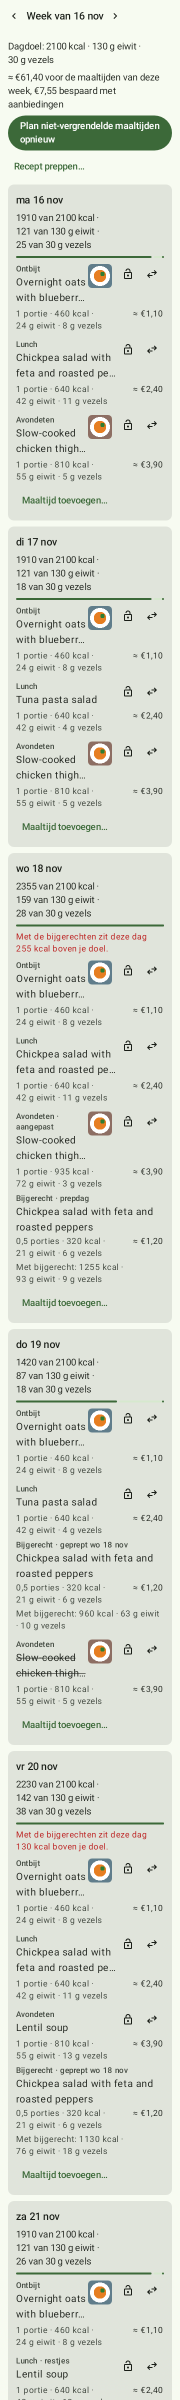
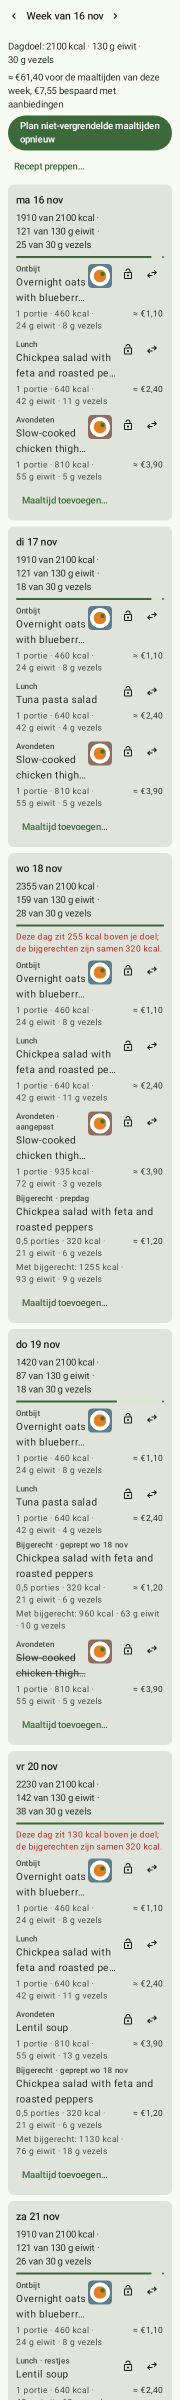
A skipped side that makes its batch still makes it once its share is eaten elsewhere
The emulator run of this pull request found that skipping the meal a side's batch is made with and eating its
side next to a later meal left the batch without a maker: the next side was labelled "prep day" with nothing
to cook, every side cooked 0, and that side could be removed. The moved side's row was deleted, where a moved
meal's row stays at 0. The side the batch is made with now stays at 0 too, so the batch is made on its
made-on day with that meal, as step 1 decided for meals; the list counts the batch from its recipe. Meals had
no such hole; a test now says so.

From the same run: the Dutch hint gets its verb, the day card says by how much the day is over and what its
sides add instead of laying the whole overshoot on them, and a side for a single meal says why it needs a
second.

diff --git a/server/src/test/kotlin/dev/tobins/mealplanner/server/PrepTest.kt b/server/src/test/kotlin/dev/tobins/mealplanner/server/PrepTest.kt
@@ -364,6 +364,24 @@ class PrepTest {
         assertEquals(2000.0, k.stockOf(k.chicken), 1e-9, "un-made, every share comes back, Friday's too")
     }
 
+    @Test
+    fun theMealABatchIsMadeWithStillMakesItWhenSkippedAndItsShareIsEatenElsewhere() = testApplication {
+        val http = start()
+        val k = http.kitchen()
+        // Made with Tuesday's dinner, which is skipped; its share is eaten on Wednesday evening instead.
+        http.prep(k.salad.id, "2026-11-17", "2026-11-17" to DINNER, "2026-11-18" to LUNCH, "2026-11-19" to DINNER)
+        http.mark("2026-11-17", DINNER, MealStatus.SKIPPED)
+        val spare = http.spare("2026-11-17").single()
+        val plan = http.post("/api/plans/$week/preps/${spare.prepId}/spare") { setBody(SpareMove(spare.skipped, PrepSlot("2026-11-18", DINNER))) }.body<WeekPlan>()
+
+        // The batch is still made on Tuesday, with that dinner: it shows the batch to cook and is the one that stays.
+        val tuesday = plan.at("2026-11-17", DINNER)!!
+        assertEquals(Triple(false, 4.25, 0.0), Triple(tuesday.leftover, tuesday.cookPortions, tuesday.prep!!.meals.first().portions))
+        assertEquals(listOf(0.0, 0.0, 0.0), listOf("2026-11-18" to LUNCH, "2026-11-18" to DINNER, "2026-11-19" to DINNER).map { plan.at(it.first, it.second)!!.cookPortions })
+        assertEquals(HttpStatusCode.Conflict, http.delete(mealPath("2026-11-17", DINNER)).status)
+        assertEquals(4.25 * 300, http.chickenRow()!!.grams!!, 1e-9)
+    }
+
     // --- Removing
 
     @Test
@@ -568,5 +586,32 @@ class PrepTest {
         assertEquals(taken, k.stockOf(k.chicken), 1e-9, "the stock does not move")
         http.mark("2026-11-17", DINNER, MealStatus.PLANNED)
         assertEquals(2000.0, k.stockOf(k.chicken), 1e-9, "un-made, every share comes back, Friday's side's too")
+    }
+
+    @Test
+    fun theSideABatchIsMadeWithStillMakesItWhenSkippedAndItsShareIsEatenElsewhere() = testApplication {
+        val http = start()
+        val k = http.kitchen()
+        http.planned()
+        // Made with Tuesday's dinner, which is skipped, and its side with it; the side is eaten next to Wednesday's dinner instead.
+        http.prep(k.salad.id, "2026-11-17", "2026-11-17" to DINNER, "2026-11-18" to LUNCH, "2026-11-19" to DINNER, side = 0.5)
+        http.mark("2026-11-17", DINNER, MealStatus.SKIPPED)
+        val spare = http.spare("2026-11-17").single()
+        val plan = http.post("/api/plans/$week/preps/${spare.prepId}/spare") { setBody(SpareMove(spare.skipped, PrepSlot("2026-11-18", DINNER))) }.body<WeekPlan>()
+
+        // The batch is still made on Tuesday, with that dinner's side, now 0: it shows the batch to cook and stays.
+        val tuesday = plan.at("2026-11-17", DINNER)!!.side!!
+        assertEquals(0.0 to 1.5, tuesday.portions to tuesday.cookPortions)
+        assertEquals(PrepSlot("2026-11-17", DINNER), tuesday.prep.meals.first().let { PrepSlot(it.date, it.slot) })
+        val later = listOf("2026-11-18" to LUNCH, "2026-11-18" to DINNER, "2026-11-19" to DINNER).map { plan.at(it.first, it.second)!!.side!! }
+        assertEquals(listOf(0.5 to 0.0, 0.5 to 0.0, 0.5 to 0.0), later.map { it.portions to it.cookPortions })
+        assertEquals(HttpStatusCode.Conflict, http.delete(mealPath("2026-11-17", DINNER, "/side")).status)
+        assertEquals(HttpStatusCode.Conflict, http.delete(mealPath("2026-11-17", DINNER)).status)
+        assertEquals(450.0, http.chickenRow()!!.grams!!, 1e-9, "the batch is bought as large as it was")
+
+        // Made when Wednesday's lunch is eaten: the shares of the sides eaten, none for Tuesday's.
+        k.stockUp(k.chicken, 1000.0)
+        http.mark("2026-11-18", LUNCH, MealStatus.EATEN)
+        assertEquals(1000.0 - 450.0, k.stockOf(k.chicken), 1e-9)
     }
 }

diff --git a/composeApp/src/commonMain/kotlin/dev/tobins/mealplanner/app/Messages.kt b/composeApp/src/commonMain/kotlin/dev/tobins/mealplanner/app/Messages.kt
@@ -254,6 +254,10 @@ enum class Msg(private val english: String, private val dutch: String) {
     PREP_EATEN_ON("Eaten on", "Gegeten op"),
     PREP_FIRST_ON_MADE_DAY("The first meal is on the day it is made.", "De eerste maaltijd is op de dag dat je het maakt."),
     PREP_TWO_MEALS("Pick at least two meals.", "Kies minstens twee maaltijden."),
+    PREP_TWO_SIDES(
+        "A prep is made once for at least two meals: pick a second lunch or dinner for the side to go with.",
+        "Een prep maak je één keer voor minstens twee maaltijden: kies nog een lunch of avondeten voor het bijgerecht.",
+    ),
     PREP_MADE_ON_PAST("The day it is made has passed: pick today or a later day.", "De dag waarop je het maakt is voorbij: kies vandaag of later."),
     PREP_PICK_RECIPE("Pick a recipe that keeps.", "Kies een recept dat goed blijft."),
     PREP_NOT_THIS_WAY("This recipe is not kept this way.", "Dit recept wordt niet zo bewaard."),
@@ -271,14 +275,14 @@ enum class Msg(private val english: String, private val dutch: String) {
     PREP_AS_SIDE("A side · {0}", "Bijgerecht · {0}"),
     PREP_SIDE_HINT(
         "A side goes next to the meal planned there, which keeps its own portion: only lunches and dinners with a meal still to eat and no side yet can be picked.",
-        "Een bijgerecht komt naast de maaltijd die er gepland staat, die zijn eigen portie houdt: je kunt alleen lunches en avondeten kiezen met een maaltijd die nog gegeten moet worden en nog geen bijgerecht.",
+        "Een bijgerecht komt naast de maaltijd die er gepland staat, die zijn eigen portie houdt: je kunt alleen lunches en avondeten kiezen met een maaltijd die nog gegeten moet worden en nog geen bijgerecht heeft.",
     ),
     PREP_MEAL_SIDE("{0} (side)", "{0} (bijgerecht)"),
     REMOVE_PREP_SIDES_TEXT("This takes all its sides out of the plan; the meals they go with stay: {0}.", "Hiermee gaan al zijn bijgerechten uit het plan; de maaltijden ernaast blijven: {0}."),
     SIDE_PREP_DAY("Side · prep day", "Bijgerecht · prepdag"),
     SIDE_PREPPED("Side · prepped {0}", "Bijgerecht · geprept {0}"),
     MEAL_WITH_SIDE("With the side: {0}", "Met bijgerecht: {0}"),
-    DAY_OVER_WITH_SIDES("With its sides this day is {0} kcal over the target.", "Met de bijgerechten zit deze dag {0} kcal boven je doel."),
+    DAY_OVER_WITH_SIDES("This day is {0} kcal over the target; its sides add {1} kcal.", "Deze dag zit {0} kcal boven je doel; de bijgerechten zijn samen {1} kcal."),
     ADD_SIDE("Add a prepped side…", "Geprept bijgerecht toevoegen…"),
     REMOVE_SIDE("Remove the side", "Bijgerecht verwijderen"),
     REMOVE_SIDE_PREP("Remove the side's prep…", "Prep van het bijgerecht verwijderen…"),

diff --git a/composeApp/src/commonTest/kotlin/dev/tobins/mealplanner/app/SidesTest.kt b/composeApp/src/commonTest/kotlin/dev/tobins/mealplanner/app/SidesTest.kt
@@ -20,6 +20,7 @@ import dev.tobins.mealplanner.api.SparePortion
 import dev.tobins.mealplanner.api.WeekPlan
 import kotlin.test.Test
 import kotlin.test.assertEquals
+import kotlin.test.assertNotNull
 import kotlin.test.assertNull
 
 /** What the Plan and Today offer and say of a side taken from a prepped batch (issue 234, step 2). */
@@ -87,13 +88,24 @@ class SidesTest {
     }
 
     @Test
-    fun aDayWithASideThatGoesOverItsCaloriesSaysByHowMuch() {
+    fun aDayWithASideThatGoesOverItsCaloriesSaysByHowMuchAndWhatItsSidesAdd() {
         val targets = DailyTargets(2000, 120)
         fun day(kcal: Double, vararg meals: PlannedMeal) = PlanDay("2026-11-17", meals.toList(), kcal, 0.0)
-        assertEquals(150, day(2150.0, meal(1, DINNER, side(1.0))).kcalOverWithSides(targets))
-        assertNull(day(1950.0, meal(1, DINNER, side(1.0))).kcalOverWithSides(targets), "under the target")
-        assertNull(day(2150.0, meal(1, DINNER)).kcalOverWithSides(targets), "over without a side: as the planner made it")
-        assertNull(day(2150.0, meal(1, DINNER, side(1.0), MealStatus.SKIPPED)).kcalOverWithSides(targets), "a skipped side counts for nothing")
+        // Over by more than the side adds: over without it too, which the sentence does not lay on the side.
+        val over = assertNotNull(day(2400.0, meal(1, DINNER, side(1.0))).overWithSides(targets))
+        assertEquals(400 to 225, over)
+        assertEquals("This day is 400 kcal over the target; its sides add 225 kcal.", Strings.English(Msg.DAY_OVER_WITH_SIDES, over.first, over.second))
+        assertEquals(150 to 225, day(2150.0, meal(1, DINNER, side(1.0))).overWithSides(targets))
+        assertNull(day(1950.0, meal(1, DINNER, side(1.0))).overWithSides(targets), "under the target")
+        assertNull(day(2150.0, meal(1, DINNER)).overWithSides(targets), "over without a side: as the planner made it")
+        assertNull(day(2150.0, meal(1, DINNER, side(1.0), MealStatus.SKIPPED)).overWithSides(targets), "a skipped side counts for nothing")
+    }
+
+    @Test
+    fun aSideForOneMealOnlySaysWhyItNeedsASecond() {
+        val choice = PrepChoice(salad, madeOn = "2026-11-17", firstDay = "2026-11-17").toggled("2026-11-17", DINNER)
+        assertEquals(Msg.PREP_TWO_SIDES, choice.eatenAs(0.5, setOf(PrepSlot("2026-11-17", DINNER))).problem)
+        assertEquals(Msg.PREP_TWO_MEALS, choice.problem, "as the meal, as before")
     }
 
     @Test

diff --git a/server/src/main/kotlin/dev/tobins/mealplanner/server/PrepRepository.kt b/server/src/main/kotlin/dev/tobins/mealplanner/server/PrepRepository.kt
@@ -158,8 +158,9 @@ class PrepRepository(
      * after it, up to the batch's last day, that has room ([hasRoom]); whatever was planned there goes. The skipped
      * meal stays skipped with a share of 0, and what the stock gave for its share and what was in it go along, so
      * the batch, the shopping list and the stock stay as they were. A skipped side goes next to the meal there
-     * instead ([hasRoomForSide]), with what the stock gave for it, and is no longer next to the skipped meal.
-     * Answers the week starting [weekStart].
+     * instead ([hasRoomForSide]), with what the stock gave for it, and is no longer next to the skipped meal; the side
+     * the batch is made with stays there at 0, as a skipped meal does, so its meal still makes the batch (it shows
+     * the batch to cook and can't be removed on its own). Answers the week starting [weekStart].
      */
     fun eatSpare(weekStart: String, id: Long, move: SpareMove): WeekPlan {
         val shown = parseWeekStart(weekStart)
@@ -178,7 +179,12 @@ class PrepRepository(
             if (from.side) {
                 if (!hasRoomForSide(meals, day, slot, batch.id)) throw ConflictException("${Batch.slotName(target, slot)} has no meal still to eat without a side")
                 q.insertSidePortion(userId, week.toString(), day.toLong(), slot.name, batch.id, from.share)
-                q.deleteSidePortion(userId, old.week.toString(), old.day.toLong(), old.slot.name)
+                // The batch is still made on its made-on day, with that meal's side, as with a meal of a batch.
+                if (batch.isCook(old.week, from.meal, side = true)) {
+                    q.clearSideShare(userId, old.week.toString(), old.day.toLong(), old.slot.name)
+                } else {
+                    q.deleteSidePortion(userId, old.week.toString(), old.day.toLong(), old.slot.name)
+                }
             } else {
                 if (!hasRoom(week, meals, day, slot, batch.id)) throw ConflictException("${Batch.slotName(target, slot)} has a meal that stays")
                 plans.leftoversToReplace(week, meals, day, slot)?.let { plans.deleteMeal(week, it.day, it.slot) }

diff --git a/composeApp/src/commonMain/kotlin/dev/tobins/mealplanner/app/Sides.kt b/composeApp/src/commonMain/kotlin/dev/tobins/mealplanner/app/Sides.kt
@@ -49,9 +49,15 @@ fun sideHosts(vararg weeks: WeekPlan?): Set<PrepSlot> = weeks.filterNotNull().fl
     }
 }.toSet()
 
-/** The kcal [this] day goes over [targets] by, rounded, when it has a side and goes over: what the day card says (a note, not a refusal). */
-fun PlanDay.kcalOverWithSides(targets: DailyTargets): Int? =
-    (kcal - targets.kcal).roundToInt().takeIf { over -> over > 0 && meals.any { it.side != null && it.status != MealStatus.SKIPPED } }
+/**
+ * What the day card says (a note, not a refusal) when [this] day has sides and goes over [targets]: the kcal it goes over by
+ * and the kcal its sides add, rounded; null otherwise. Both, as the day may have been over without its sides already.
+ */
+fun PlanDay.overWithSides(targets: DailyTargets): Pair<Int, Int>? {
+    val sides = meals.filter { it.status != MealStatus.SKIPPED }.mapNotNull { it.side }
+    val over = (kcal - targets.kcal).roundToInt()
+    return if (sides.isEmpty() || over <= 0) null else over to sides.sumOf { it.kcal }.roundToInt()
+}
 
 /** What [this] side gives, as a meal's numbers: `0.5 servings · 225 kcal · 30 g protein`. */
 fun MealSide.macrosText(strings: Strings): String =

diff --git a/server/src/main/kotlin/dev/tobins/mealplanner/server/PlanRepository.kt b/server/src/main/kotlin/dev/tobins/mealplanner/server/PlanRepository.kt
@@ -674,9 +674,11 @@ class PlanRepository(
         val cookedAsSides = week.mapNotNull { meal ->
             val side = meal.side ?: return@mapNotNull null
             val batch = sideBatches[side.prep.id]?.takeIf { it.isCook(start, meal, side = true) } ?: return@mapNotNull null
+            // Of the recipe, not of the side: the side it is made with is 0 once its share is eaten elsewhere.
+            val recipe = recipes.candidate(batch.recipeId)
             PlannedMeal(
                 meal.day, meal.slot, batch.recipeId, batch.title, batch.portions,
-                kcal = side.kcal / side.portions * batch.portions, proteinG = side.proteinG / side.portions * batch.portions,
+                kcal = (recipe?.kcal ?: 0.0) * batch.portions, proteinG = (recipe?.proteinG ?: 0.0) * batch.portions,
                 locked = true, status = batch.status, prep = side.prep,
             )
         }

diff --git a/composeApp/src/commonMain/kotlin/dev/tobins/mealplanner/app/PlanScreen.kt b/composeApp/src/commonMain/kotlin/dev/tobins/mealplanner/app/PlanScreen.kt
@@ -369,8 +369,8 @@ private fun DayCard(
                 modifier = Modifier.fillMaxWidth(),
             )
             // A side added by hand may take the day over its calories: said, not refused (issue 234).
-            day.kcalOverWithSides(targets)?.let { over ->
-                Text(t(Msg.DAY_OVER_WITH_SIDES, over), style = MaterialTheme.typography.bodySmall.numeric(), color = MaterialTheme.colorScheme.error)
+            day.overWithSides(targets)?.let { (over, sides) ->
+                Text(t(Msg.DAY_OVER_WITH_SIDES, over, sides), style = MaterialTheme.typography.bodySmall.numeric(), color = MaterialTheme.colorScheme.error)
             }
             if (day.meals.isEmpty()) {
                 Text(t(Msg.NOTHING_PLANNED), style = MaterialTheme.typography.bodySmall, color = MaterialTheme.colorScheme.onSurfaceVariant)

diff --git a/composeApp/src/commonMain/kotlin/dev/tobins/mealplanner/app/Prep.kt b/composeApp/src/commonMain/kotlin/dev/tobins/mealplanner/app/Prep.kt
@@ -78,7 +78,8 @@ data class PrepChoice(
             recipe == null -> Msg.PREP_PICK_RECIPE
             keeps == null -> Msg.PREP_NOT_THIS_WAY
             meals.none { it.date == madeOn } -> Msg.PREP_FIRST_ON_MADE_DAY
-            meals.size < 2 -> Msg.PREP_TWO_MEALS
+            // A batch is made once for several meals; as a side that may be one meal short, so say why.
+            meals.size < 2 -> if (side == null) Msg.PREP_TWO_MEALS else Msg.PREP_TWO_SIDES
             else -> null
         }
 

diff --git a/README.md b/README.md
@@ -244,7 +244,9 @@ them. Only by hand: the planner never starts a prep nor adds a side, it plans ar
   as `DELETE /api/plans/{weekStart}/meals/{day}/{slot}/side` does on its own, except for the side the batch is
   made with or one of a batch that was made (409). Removing a prep eaten as sides takes the sides, the meals stay.
   A skipped meal's side is a share in the box (`SparePortion.side`) whose room is the later meals still to eat
-  without a side; eaten there, it is the side of that meal.
+  without a side; eaten there, it is the side of that meal. The side the batch is made with stays where it was at
+  0, as a skipped meal of a batch does: the batch is still made that day, with that meal, which shows the batch to
+  cook and can't be removed on its own.
 - Kept in `prep` and `prepPortion` (version 20 of the database). A `prepPortion` row is a meal's share of a batch,
   with a role: `MEAL` for the slot's meal, `SIDE` for a side next to it, with its own portions. What a side takes
   from the stock is kept under its meal apart from the main's (`stockUse.role`, version 21).
@@ -266,8 +268,9 @@ dinners with a meal still to eat and no side yet can be picked (of the week show
 side…" in such a meal's menu opens it as a side of half a serving with that meal chosen. The side shows under the
 meal's main, "Side · prep day" where it is made and "Side · prepped Wed 18 Nov" after, with its numbers and what
 the meal comes to with it; a tap opens its recipe (the batch to cook on the prep day). The meal's menu then has
-"Remove the side" and "Remove the side's prep…". A day card whose sides take it over the calories says by how
-much; Today's forecast counts them.
+"Remove the side" and "Remove the side's prep…". A day card with sides that is over its calories says by how much
+and what its sides add, as the day may have been over without them; Today's forecast counts them. A side needs a
+second meal to go with, as a prep is made once for several meals, and the dialog says so.
 
 An installed app that knows nothing of preps shows the later meals as locked leftovers with nothing to cook and
 the made-on day's meal as cooking for the leftovers; it marks them eaten or skipped as any meal, and a refusal to
